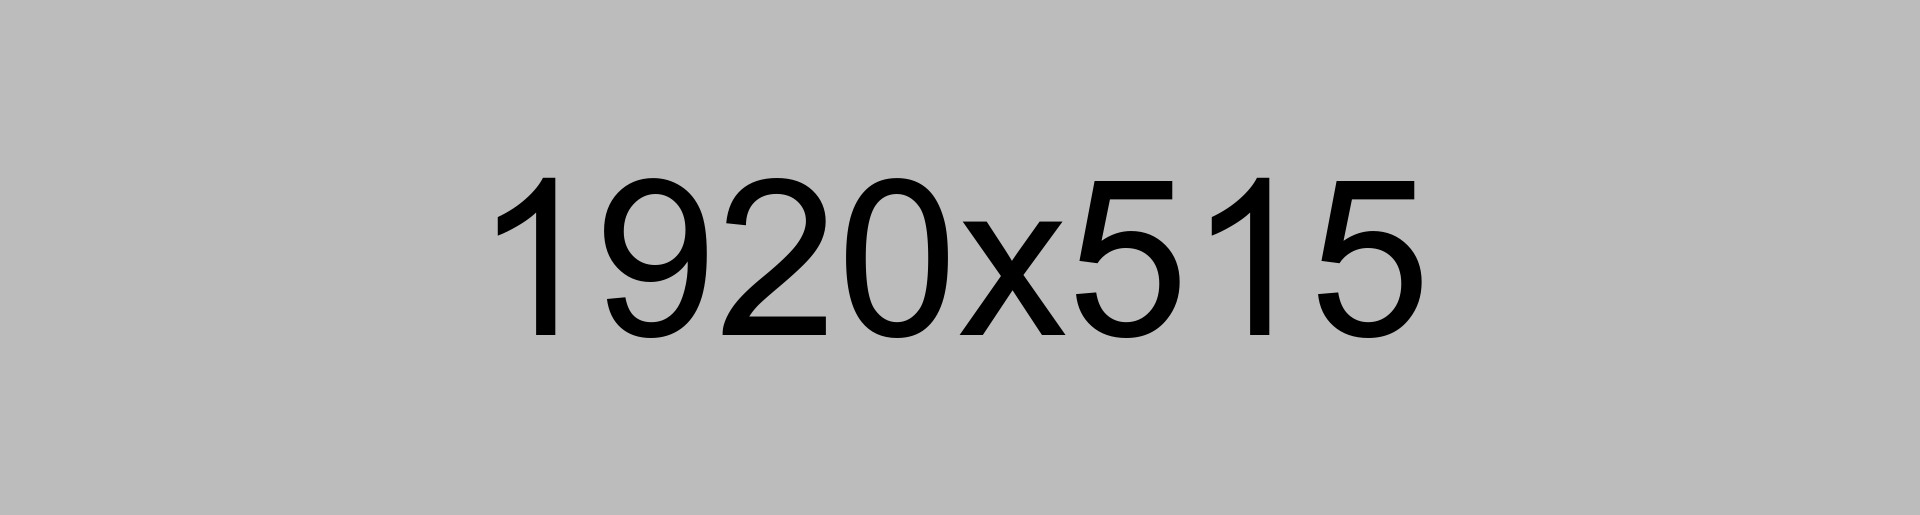
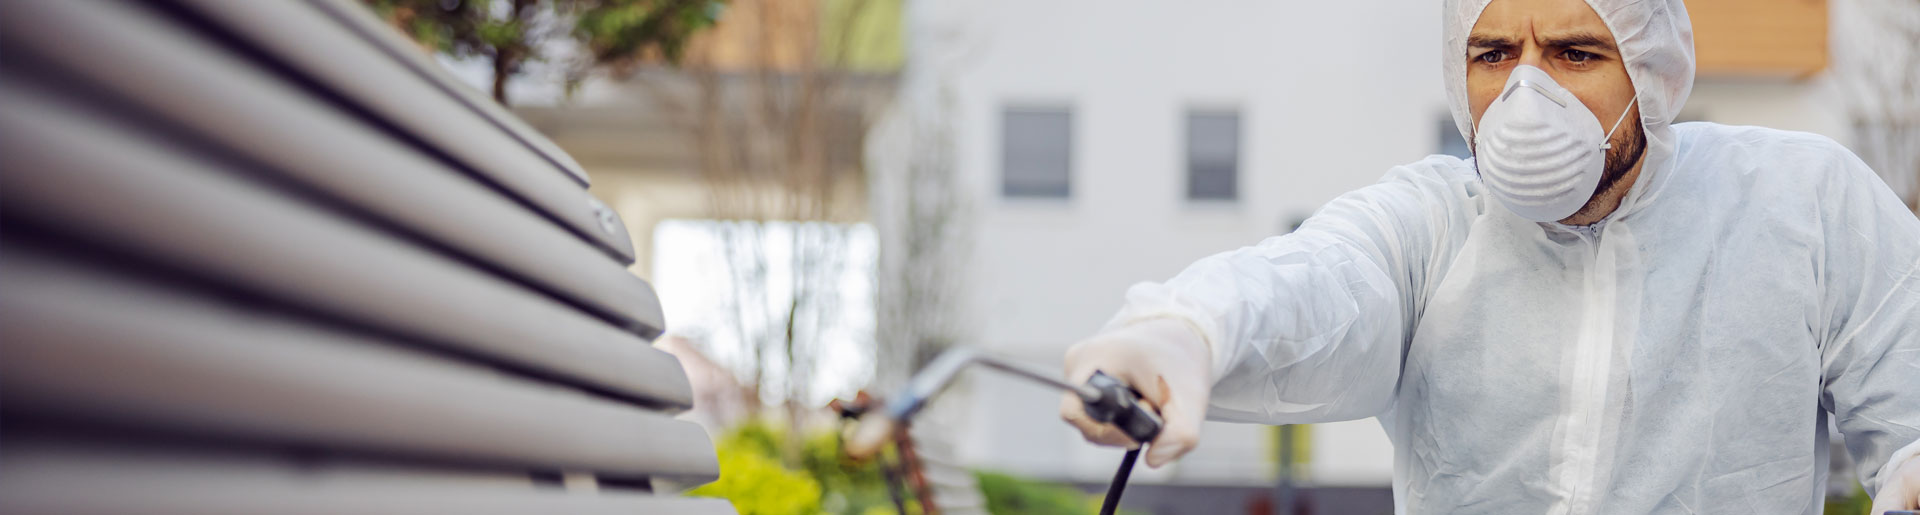
feat: atualização de assets e configuração vercel

diff --git a/index.html b/index.html
@@ -1017,7 +1017,7 @@
                     <div class="content_block_7">
                         <div class="content-box" style="background-image: url(assets/images/resource/video-1.jpg);">
                             <div class="video-btn">
-                                <a href="https://www.youtube.com/watch?v=nfP5N9Yc72A&amp;t=28s" class="lightbox-image" data-caption="">
+                                <a href="" class="lightbox-image" data-caption="">
                                     <i class="flaticon-play-button"></i>
                                     <span class="border-animation border-1"></span>
                                     <span class="border-animation border-2"></span>